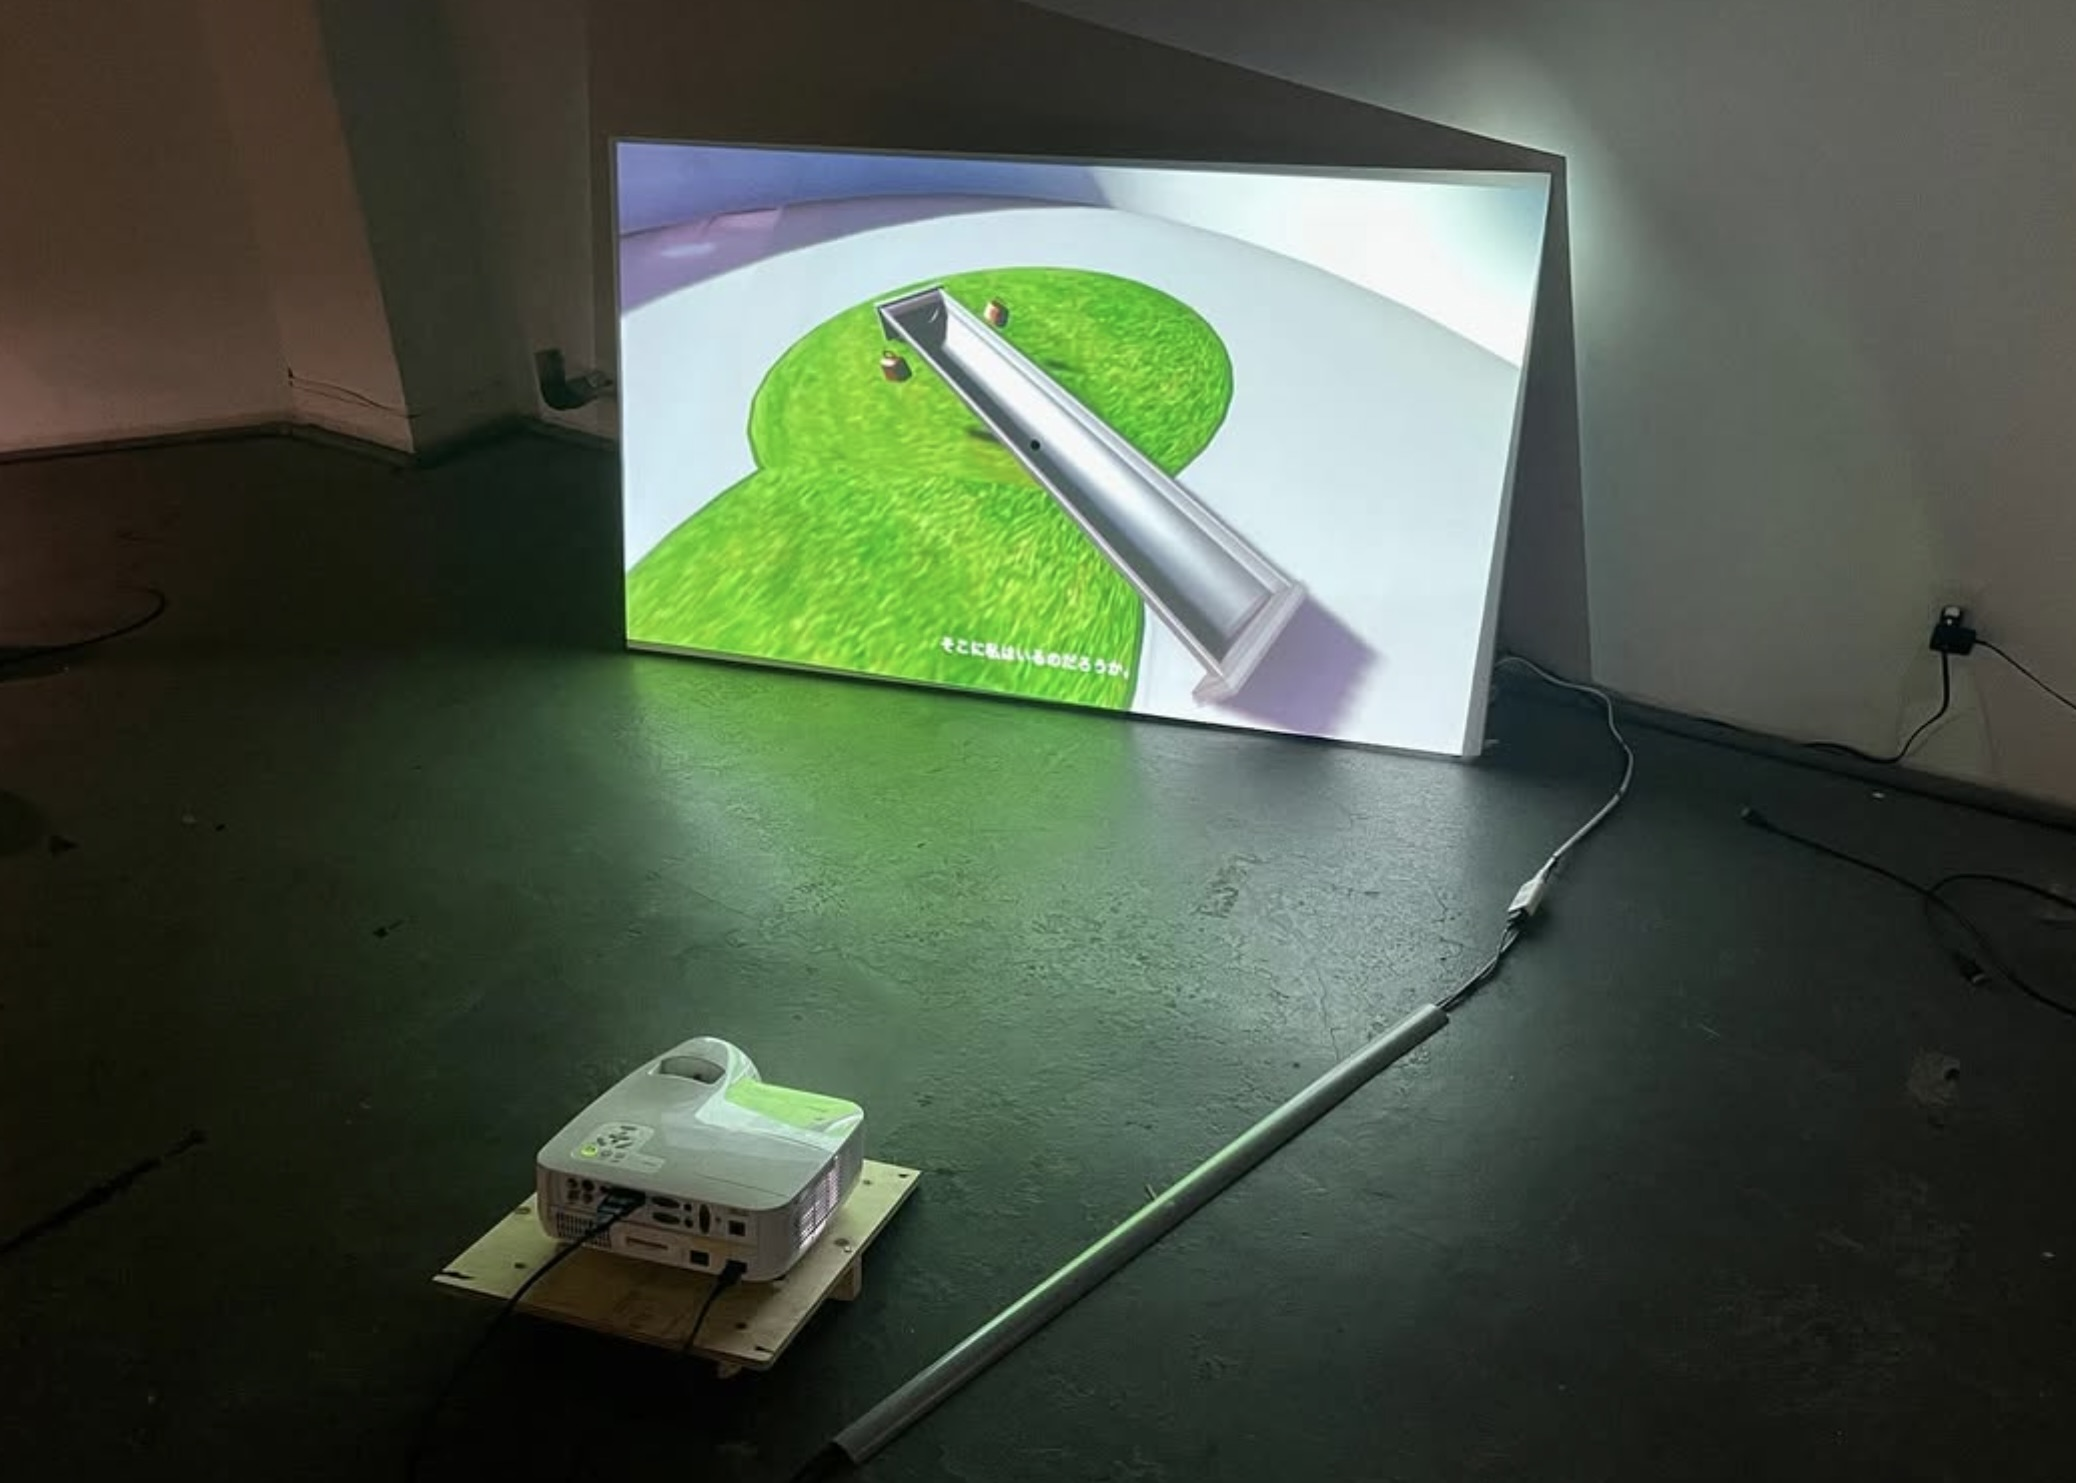
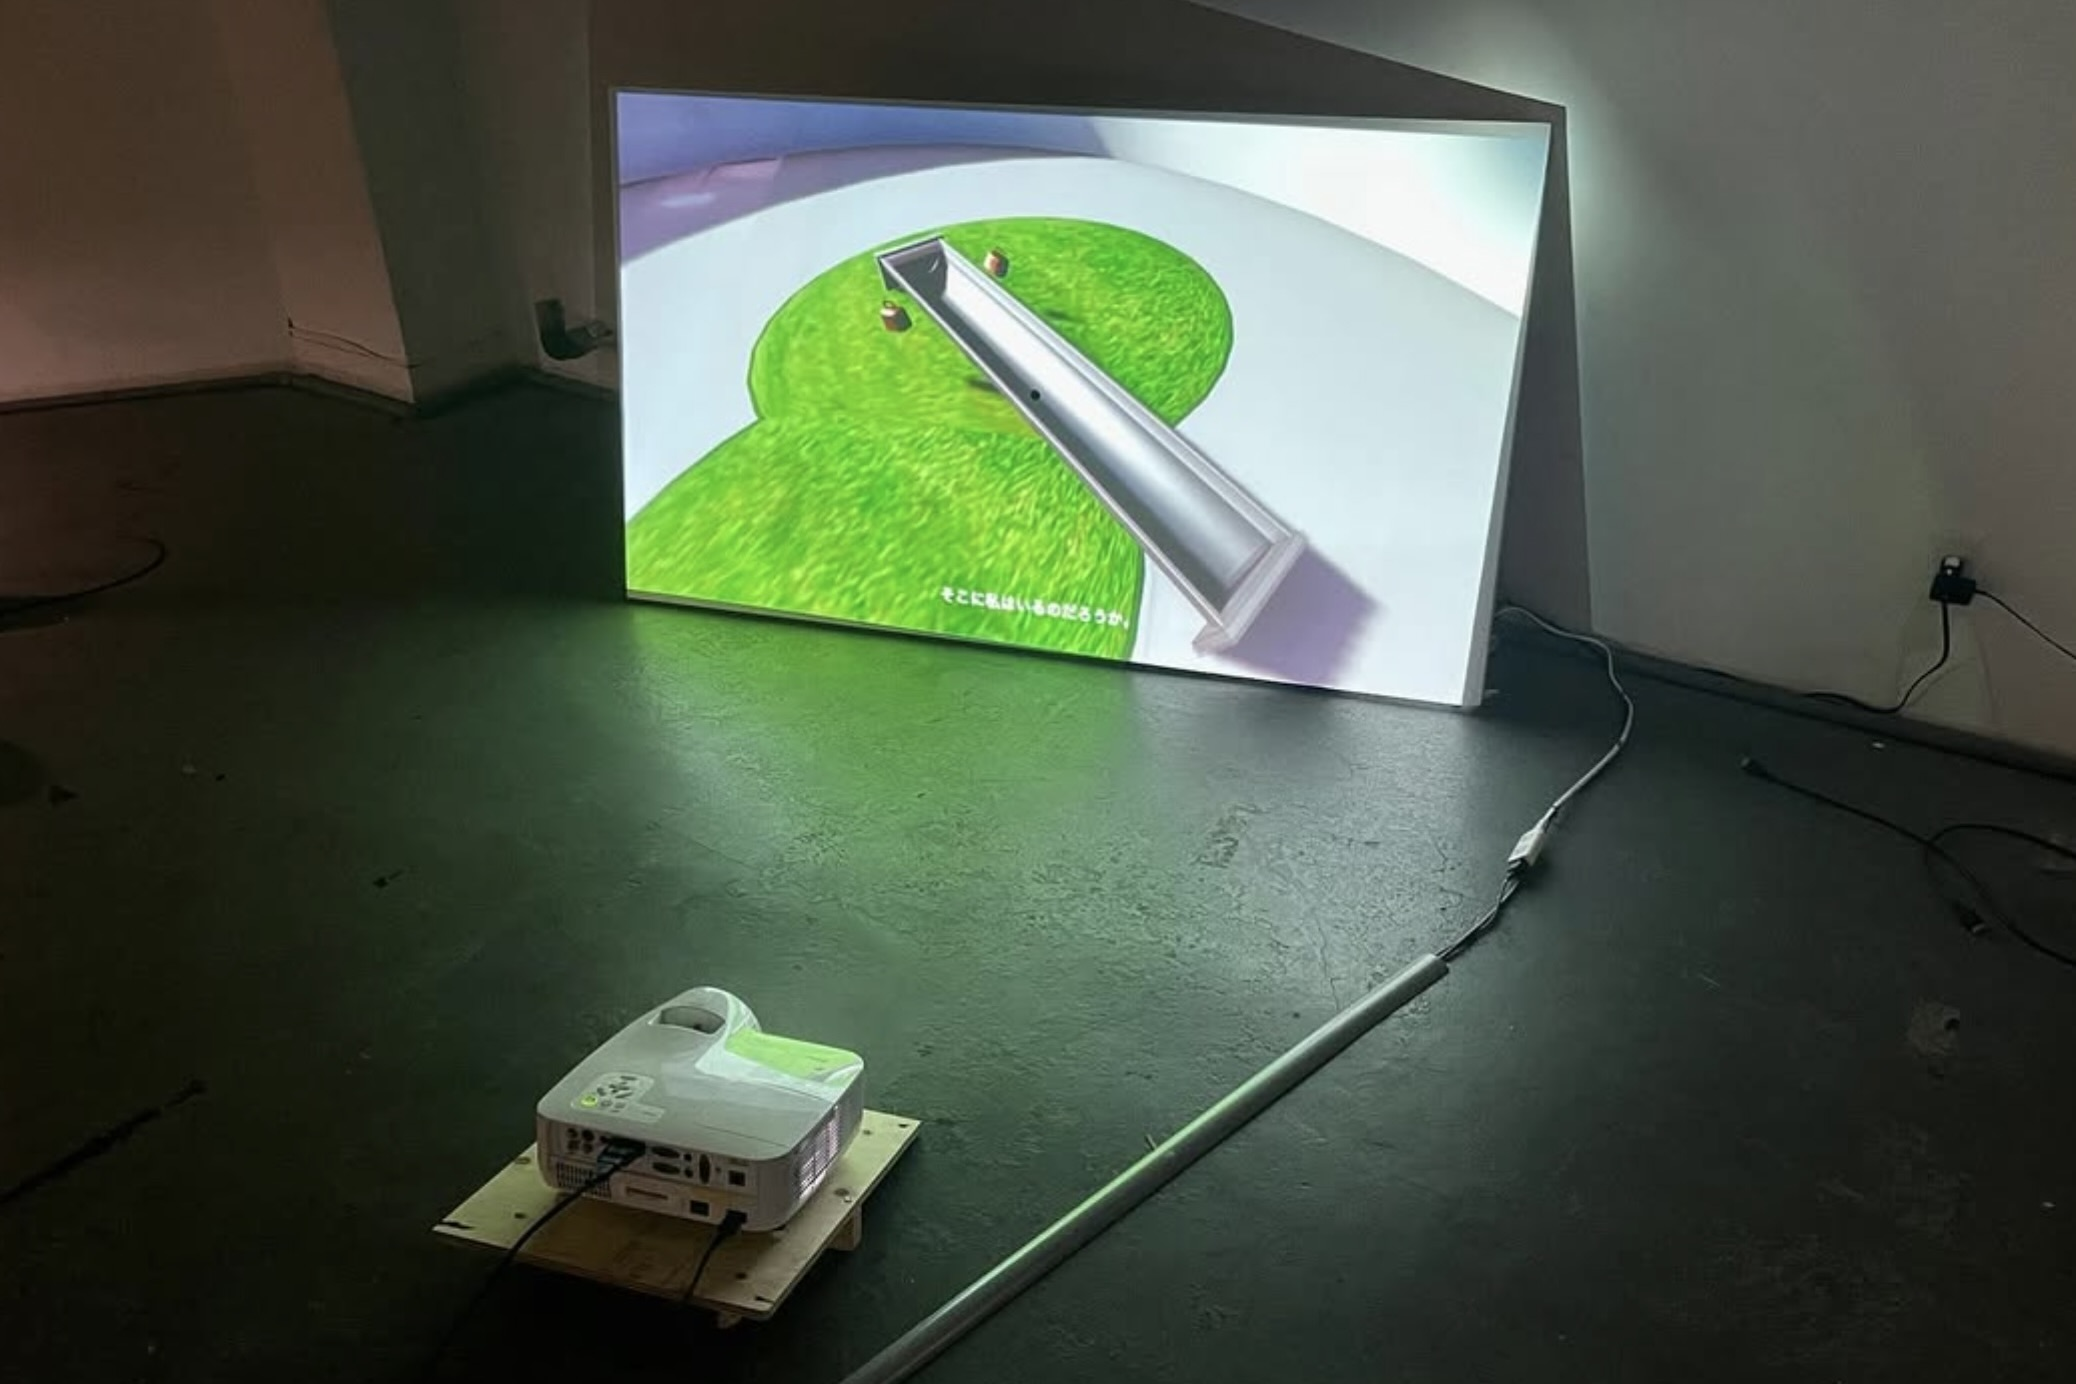
update portfolio

diff --git a/[ 0x ]  exhibition.html b/[ 0x ]  exhibition.html
@@ -99,7 +99,7 @@
        
 
 <img src="img/43.jpg" alt="me2" class="small-img">
-      <p>[ Heartbeat]installation</p><br>
+      <p>[ Heartbeat ] installation</p><br>
 
 
 